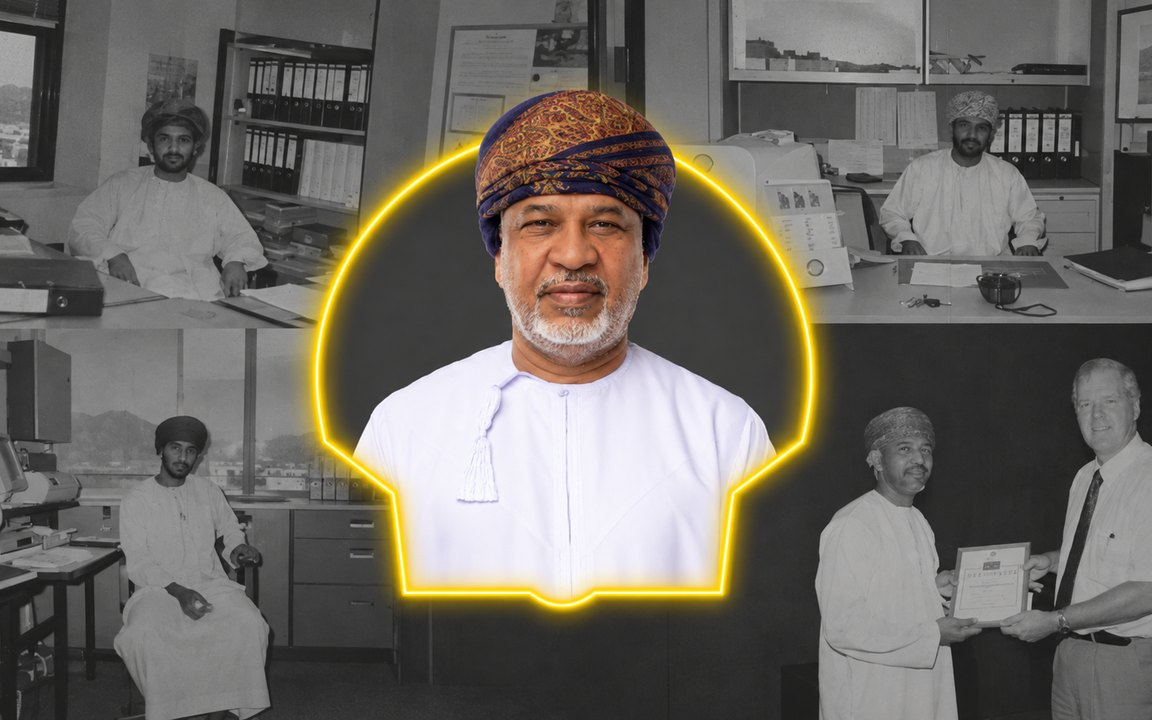
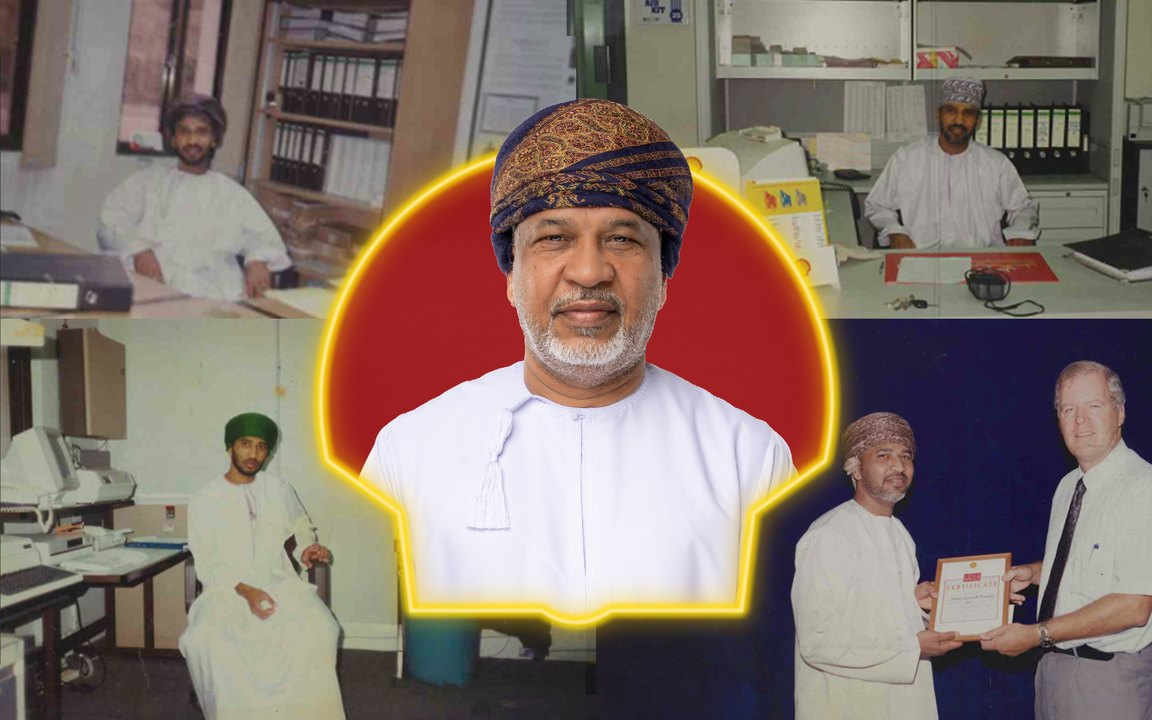
Thank Shell People Survey participants and lead the slider with the farewell
The Shell People Survey 2026 closed on 18 September. Replace the
invitation in the survey panel with a thank-you message, and drop the
"Take the Shell People Survey" link and its now-unused styles.

Latest updates now open with the Jamal Al-Wahabi farewell and end with
the phishing scorecard, and the farewell card and page use the
updated artwork.

diff --git a/frontend/src/modules/ModuleD/IntraPortalV3.jsx b/frontend/src/modules/ModuleD/IntraPortalV3.jsx
@@ -158,12 +158,13 @@ const POSTS_MEDIA = `${MEDIA_ROOT}/posts`;
 // it. Every field except id, title and image is optional.
 const LATEST_POSTS = [
   {
-    id: 'phishing-scorecard-target',
-    title: 'Phishing Scorecard Target',
-    subtitle: '31.08% achieved today. 40% is our next destination.',
-    image: `${POSTS_MEDIA}/phishing-golden-catch.jpg`,
-    alt: 'Don’t be the golden catch — report phishing',
-    href: 'https://eu001-sp.shell.com/sites/SPO000684',
+    id: 'farewell-jamal-al-wahabi',
+    title: 'Farewell, Jamal Al-Wahabi',
+    subtitle: 'Customer Operations',
+    note: '44 Years. One Remarkable Journey.',
+    image: `${MEDIA_ROOT}/farewell-jamal-al-wahabi.jpg`,
+    alt: 'Jamal Al-Wahabi, with photographs from his years at Shell Oman Marketing',
+    href: '/farewell-jamal-al-wahabi',
   },
   {
     id: 'welcome-riyadh-ashoor',
@@ -184,13 +185,12 @@ const LATEST_POSTS = [
     href: '/welcome-shurooq-al-darmaki',
   },
   {
-    id: 'farewell-jamal-al-wahabi',
-    title: 'Farewell, Jamal Al-Wahabi',
-    subtitle: 'Customer Operations',
-    note: '44 Years. One Remarkable Journey.',
-    image: `${MEDIA_ROOT}/farewell-jamal-al-wahabi.jpg`,
-    alt: 'Jamal Al-Wahabi, with photographs from his years at Shell Oman Marketing',
-    href: '/farewell-jamal-al-wahabi',
+    id: 'phishing-scorecard-target',
+    title: 'Phishing Scorecard Target',
+    subtitle: '31.08% achieved today. 40% is our next destination.',
+    image: `${POSTS_MEDIA}/phishing-golden-catch.jpg`,
+    alt: 'Don’t be the golden catch — report phishing',
+    href: 'https://eu001-sp.shell.com/sites/SPO000684',
   },
 ];
 
@@ -399,8 +399,6 @@ function SectionHeading({ eyebrow, title, action }) {
   );
 }
 
-const SHELL_PEOPLE_SURVEY_HREF = 'https://eu001-sp.shell.com/sites/SPO000430';
-
 function ThinkSecureLearning() {
   return (
     <article className="ip3-learning-panel">
@@ -411,24 +409,18 @@ function ThinkSecureLearning() {
       />
 
       <div className="ip3-learning-copy">
-        <p className="ip3-learning-copy-lead">
-          The Shell People Survey (SPS) 2026 will be open from the 19th of August until September 18th,
-          2026, and you have the opportunity to voice your opinion! SPS is an annual survey conducted
+        <h2 className="ip3-learning-copy-title">
+          Thank You for Your Participation in the Shell People Survey 2026
+        </h2>
+        <p>
+          The Shell People Survey 2026 closed on 18 September 2026, and we would like to thank everyone who
+          participated.
         </p>
         <p>
-          to measure our engagement, motivation, and commitment to Shell. It covers crucial topics like safety,
-          diversity, equity and Inclusion, ethics, collaboration, organization and team leadership.
+          Your feedback is important and helps us improve our workplace, culture, employee experience, and the way
+          we work together. Every response makes a difference and helps shape a better future for all employees.
         </p>
-        <p>
-          <a
-            className="ip3-learning-cta"
-            href={SHELL_PEOPLE_SURVEY_HREF}
-            target="_blank"
-            rel="noreferrer"
-          >
-            Take the Shell People Survey
-          </a>
-        </p>
+        <p>Thank you for sharing your voice and contributing to a better Shell workplace.</p>
       </div>
     </article>
   );

diff --git a/frontend/src/modules/ModuleD/IntraPortalV3.test.jsx b/frontend/src/modules/ModuleD/IntraPortalV3.test.jsx
@@ -370,8 +370,11 @@ test('uses the Shell People Survey banner and survey copy without tabs', () => {
   );
   const surveyPanel = surveyBanner.closest('.ip3-learning-panel');
   expect(within(surveyPanel).queryByRole('tab')).not.toBeInTheDocument();
-  expect(within(surveyPanel).getByText(/The Shell People Survey \(SPS\) 2026 will be open/i)).toBeInTheDocument();
-  expect(within(surveyPanel).getByText(/to measure our engagement, motivation, and commitment to Shell/i)).toBeInTheDocument();
+  expect(within(surveyPanel).getByRole('heading', { name: 'Thank You for Your Participation in the Shell People Survey 2026' })).toBeInTheDocument();
+  expect(within(surveyPanel).getByText(/closed on 18 September 2026/)).toBeInTheDocument();
+  expect(within(surveyPanel).getByText(/contributing to a better Shell workplace/)).toBeInTheDocument();
+  // the survey has closed, so there is no longer a link to take it
+  expect(within(surveyPanel).queryByRole('link', { name: /Take the Shell People Survey/ })).not.toBeInTheDocument();
 });
 
 test('uses project media instead of remote placeholder images', () => {
@@ -448,12 +451,12 @@ test('home page links to the people stories instead of embedding them', () => {
 
   expect(container.querySelectorAll('.ip3-post-slider-page')).toHaveLength(2);
   expect(hrefsOf(visiblePage())).toEqual([
-    'https://eu001-sp.shell.com/sites/SPO000684',
+    '/farewell-jamal-al-wahabi',
     '/welcome-riyadh-ashoor',
   ]);
 
   fireEvent.click(screen.getByRole('button', { name: 'Next stories' }));
-  expect(hrefsOf(visiblePage())).toEqual(['/welcome-shurooq-al-darmaki', '/farewell-jamal-al-wahabi']);
+  expect(hrefsOf(visiblePage())).toEqual(['/welcome-shurooq-al-darmaki', 'https://eu001-sp.shell.com/sites/SPO000684']);
   expect(container.querySelector('.ip3-post-slider-track')).toHaveStyle({ transform: 'translate3d(-100%, 0, 0)' });
 });
 

diff --git a/frontend/src/modules/ModuleD/intraportal-v3.css b/frontend/src/modules/ModuleD/intraportal-v3.css
@@ -783,10 +783,7 @@
 .ip3-learning-banner { display: block; width: 100%; height: auto; aspect-ratio: 855 / 266; object-fit: contain; background: #f4f6f7; }
 .ip3-learning-copy { align-content: start; display: grid; gap: var(--ip3-space-5); padding: clamp(1.5rem, 2.6vw, 2.5rem); }
 .ip3-learning-copy p { max-width: 74ch; margin: 0; color: var(--ip3-ink); font-size: var(--ip3-type-body); line-height: 1.6; }
-.ip3-learning-copy-lead { font-weight: var(--ip3-weight-bold); }
-/* Needs the parent class to outrank .ip3-learning-copy p, which sets the ink colour. */
-.ip3-learning-copy .ip3-learning-cta { color: var(--ip3-brand-red); font-size: var(--ip3-type-body); font-weight: var(--ip3-weight-bold); text-decoration: none; }
-.ip3-learning-copy .ip3-learning-cta:hover, .ip3-learning-copy .ip3-learning-cta:focus-visible { text-decoration: underline; }
+.ip3-learning-copy-title { margin: 0; color: var(--ip3-ink); font-size: var(--ip3-type-subheading); font-weight: var(--ip3-weight-heavy); line-height: 1.3; }
 
 .ip3-performance { display: grid; grid-template-columns: minmax(0, 1.8fr) minmax(18rem, 0.7fr); gap: var(--ip3-space-3); }
 .ip3-performance-wide { grid-template-columns: minmax(0, 1fr); }
